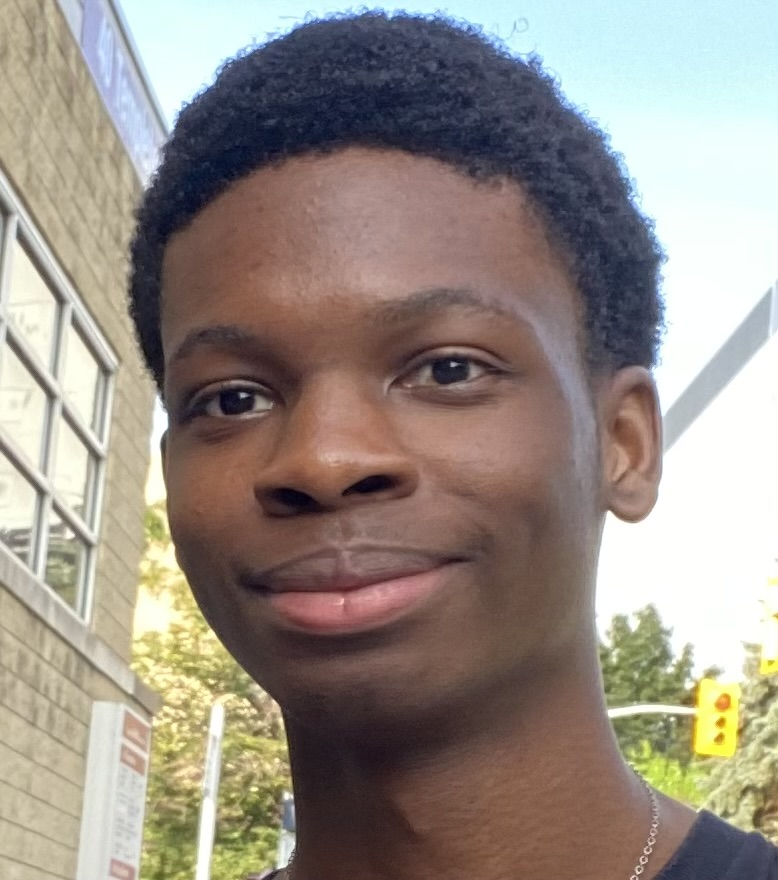
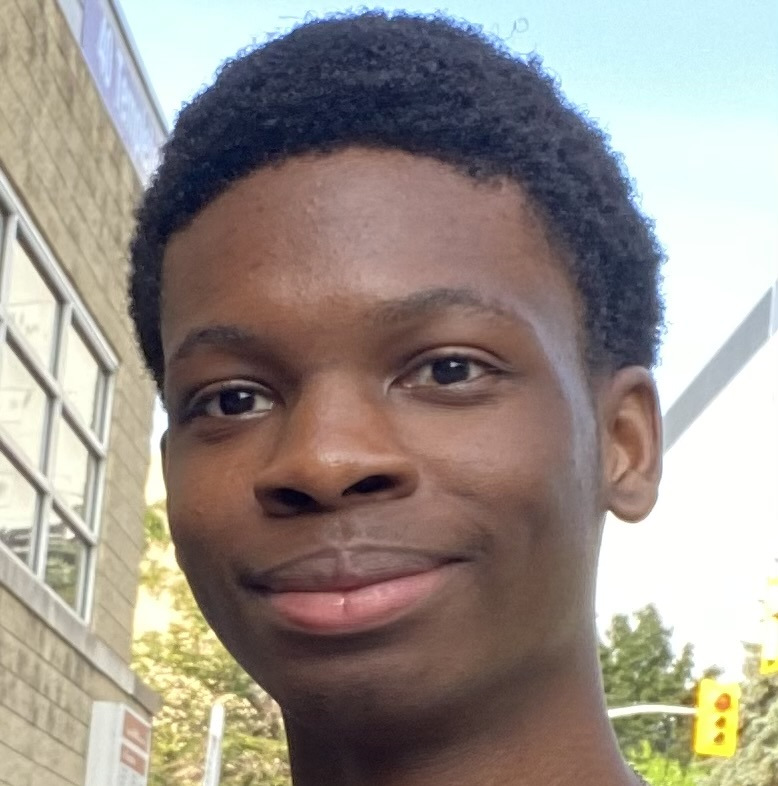
added photo of Raymond and croped other photos

diff --git a/Team.html b/Team.html
@@ -104,7 +104,7 @@
 					<td>
 
 						<h2>Raymond Tan</h2>
-						<img src="images/placeholder-face.jpg">
+						<img src="images/Raymond.jpg">
 						<p>First year Software Engineering student at the University of Ottawa.
 						</p>
 
